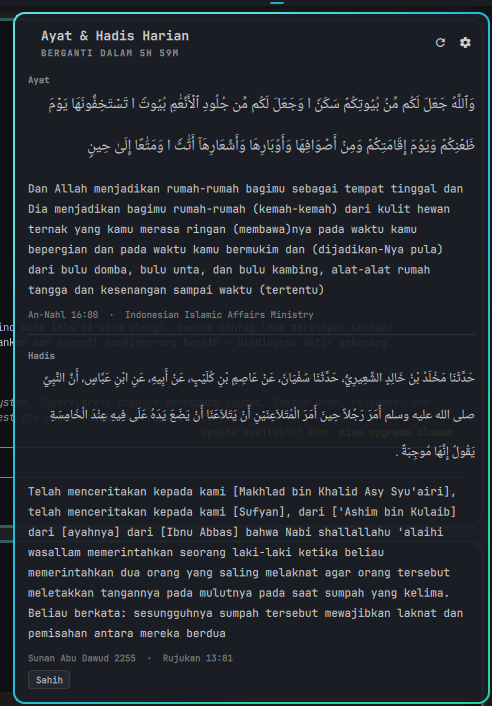
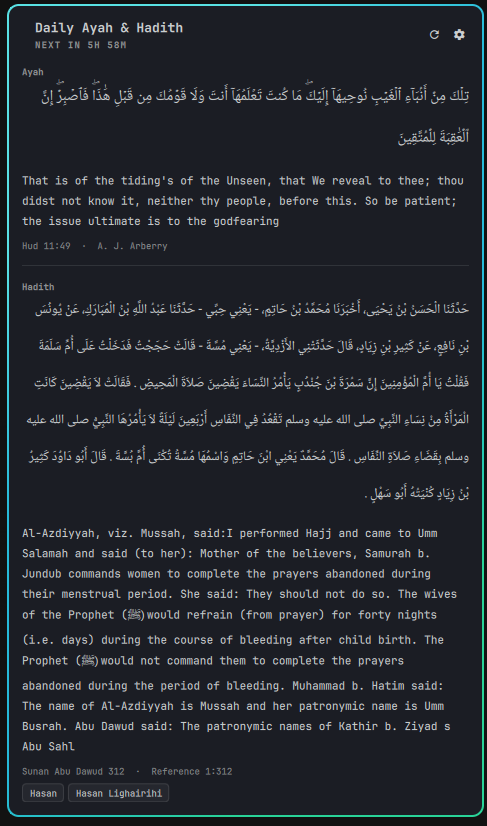
Refresh the panel screenshot
Claude-Session: https://claude.ai/code/session_01AbRyj9wsFA1ysLBYv6X5eP

Changed region(s): [[0.0, 0.0, 1.0, 1.0]]

diff --git a/README.md b/README.md
@@ -10,7 +10,7 @@ with a panel for the full text, translation, reference and grading.
 - **Works offline** once the editions you chose have been cached
 - **Its own UI language**, separate from the language of the translations
 
-![The panel, showing an ayah and a hadith in Indonesian](preview.png)
+![The panel, showing an ayah and a hadith in English](preview.png)
 
 ## Install
 
